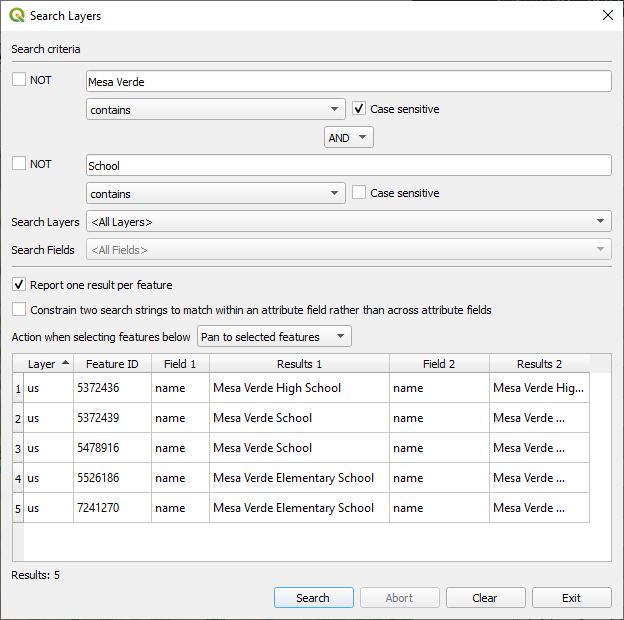
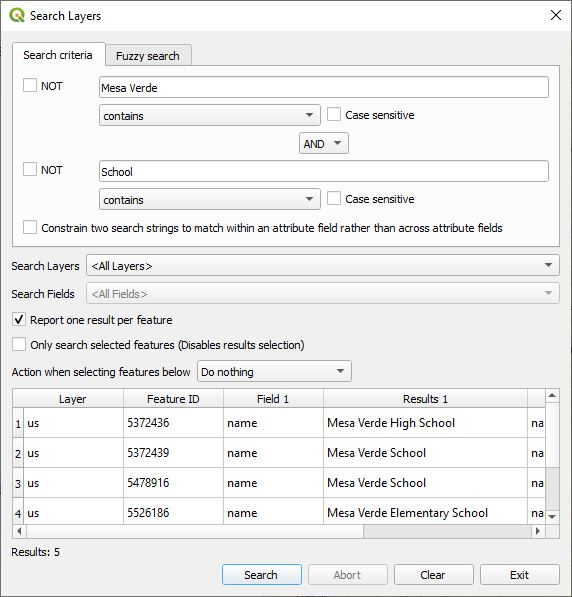
update documentation

diff --git a/index.html b/index.html
@@ -37,9 +37,9 @@ code {
 </head>
 <body>
 <h1>Search Layers Plugin</h1>
-<p>The Search Layers plugin features enhanced textual vector layer searching in QGIS. It provides the ability to search across all layers and all fields.</p>
+<p>The Search Layers plugin features enhanced textual vector layer searching in QGIS. It provides the ability to search across all layers and all fields. It also features a new Fuzzy Search algorithm.</p>
 <p>Search Layers is located in the QGIS Plugins menu under <em>"Plugins-&gt;Search Layers-&gt;Search Layers"</em> or by selecting the tool bar icon. <img alt="Toolbar Icon" src="icon.png" /></p>
-<p>The following dialog box is displayed when "Search Layers" is launched.</p>
+<p>The following dialog box is displayed when "Search Layers" is first launched.</p>
 <p><img alt="Search Layers Dialog" src="doc/layersearch.jpg" /></p>
 <p>Under <strong>Search criteria</strong>, you can enter up to two search strings. The <strong>NOT</strong> check box will negate the search results for the applicable string.</p>
 <p>Under each search string text box a drop down menu specifies how the search string is to match the contents in the attribute table. The options are: </p>
@@ -53,6 +53,7 @@ code {
 <p><strong>Search Layers</strong> specifies whether the search will be on <em>&lt;All Layers&gt;</em>, <em>&lt;Selected layers&gt;</em>, or on any of the vector layers in the QGIS project. If a specific layer is selected then <strong>Search Fields</strong> will be enabled and by default <em>&lt;All Fields&gt;</em> will be selected, but any field can be selected from the layer and the search will only search on that layer and field.</p>
 <p>It is possible that a search string could match the contents in one or more attribute fields. By checking <strong>Report one result per feature</strong>, only the first match per feature will be reported.</p>
 <p>When two search strings are used checking <strong>Constrain two search strings to match within an attribute field rather than across attribute fields</strong> will constrain the search criteria to match within an attribute field; otherwise, one string may match one attribute field and the other string may match another attribute field. The results are either <strong>AND</strong>ed or <strong>OR</strong>ed together. Here is an axample of a two string search.</p>
+<p>If <strong>Only search selected features</strong> is checked, the features that are selected in QGIS will be the only ones searched. This is one way to limit a search to a particular area. Note that with this checked, the normal interaction of clicking on a found feature in the list will not select the feature for obvious reasons; however, the zoom or pan to actions will still apply.</p>
 <p><img alt="Search Layers Dialog" src="doc/layersearch2.jpg" /></p>
 <p>Click  the <strong>Search</strong> button to begin the search. In the case of a large data set, clicking on <strong>Abort</strong> will halt the process. Note that the plugin stops after finding 1500 matches.</p>
 <p>When matches are found and clicked on the feature(s) will be highlighted. You can you Shift-&gt;Click to highlight a range of features, Ctrl-&gt;Click to toggle whether a feature is highlighted or not. The drop down menu <strong>Action when selecting features below</strong> controls one of the following motion actions. </p>
@@ -61,4 +62,7 @@ code {
 <li><strong>Zoom to selected features</strong> - QGIS will zoom in on the selected features.</li>
 <li><strong>Pan to selected features</strong> - QGIS will pan to the selected features.</li>
 </ul>
-<p>Note that the search is very quick when selecting a single vector layer under <strong>Search Layers</strong> and a single field under <strong>Search Fields</strong>. If this is not the case regular expression searches are used and are very slow. In the future this may change.</p></body>
+<p>Note that the search is very quick when selecting a single vector layer under <strong>Search Layers</strong> and a single field under <strong>Search Fields</strong>. If this is not the case regular expression searches are used and are very slow. In the future this may change.</p>
+<h2>Fuzzy Search</h2>
+<p>This QGIS plugin makes use of two fuzzy search algorithms. One is based off of the <strong><em>Levenshtein</em></strong> algorithm and the other is a <strong><em>Soundex</em></strong> algorithm. The soundex is really only useful for matching single words that sound the same. This is a screen shot.</p>
+<p><img alt="Search Layers Dialog" src="doc/layersearch3.jpg" /></p></body>

diff --git a/readme.md b/readme.md
@@ -1,10 +1,10 @@
 # Search Layers Plugin
 
-The Search Layers plugin features enhanced textual vector layer searching in QGIS. It provides the ability to search across all layers and all fields.
+The Search Layers plugin features enhanced textual vector layer searching in QGIS. It provides the ability to search across all layers and all fields. It also features a new Fuzzy Search algorithm.
 
 Search Layers is located in the QGIS Plugins menu under *"Plugins->Search Layers->Search Layers"* or by selecting the tool bar icon. ![Toolbar Icon](icon.png)
 
-The following dialog box is displayed when "Search Layers" is launched.
+The following dialog box is displayed when "Search Layers" is first launched.
 
 ![Search Layers Dialog](doc/layersearch.jpg)
 
@@ -25,6 +25,8 @@ It is possible that a search string could match the contents in one or more attr
 
 When two search strings are used checking **Constrain two search strings to match within an attribute field rather than across attribute fields** will constrain the search criteria to match within an attribute field; otherwise, one string may match one attribute field and the other string may match another attribute field. The results are either **AND**ed or **OR**ed together. Here is an axample of a two string search.
 
+If **Only search selected features** is checked, the features that are selected in QGIS will be the only ones searched. This is one way to limit a search to a particular area. Note that with this checked, the normal interaction of clicking on a found feature in the list will not select the feature for obvious reasons; however, the zoom or pan to actions will still apply.
+
 ![Search Layers Dialog](doc/layersearch2.jpg)
 
 Click  the **Search** button to begin the search. In the case of a large data set, clicking on **Abort** will halt the process. Note that the plugin stops after finding 1500 matches.
@@ -36,3 +38,9 @@ When matches are found and clicked on the feature(s) will be highlighted. You ca
 * **Pan to selected features** - QGIS will pan to the selected features.
 
 Note that the search is very quick when selecting a single vector layer under **Search Layers** and a single field under **Search Fields**. If this is not the case regular expression searches are used and are very slow. In the future this may change.
+
+## Fuzzy Search
+
+This QGIS plugin makes use of two fuzzy search algorithms. One is based off of the ***Levenshtein*** algorithm and the other is a ***Soundex*** algorithm. The soundex is really only useful for matching single words that sound the same. This is a screen shot.
+
+![Search Layers Dialog](doc/layersearch3.jpg)
